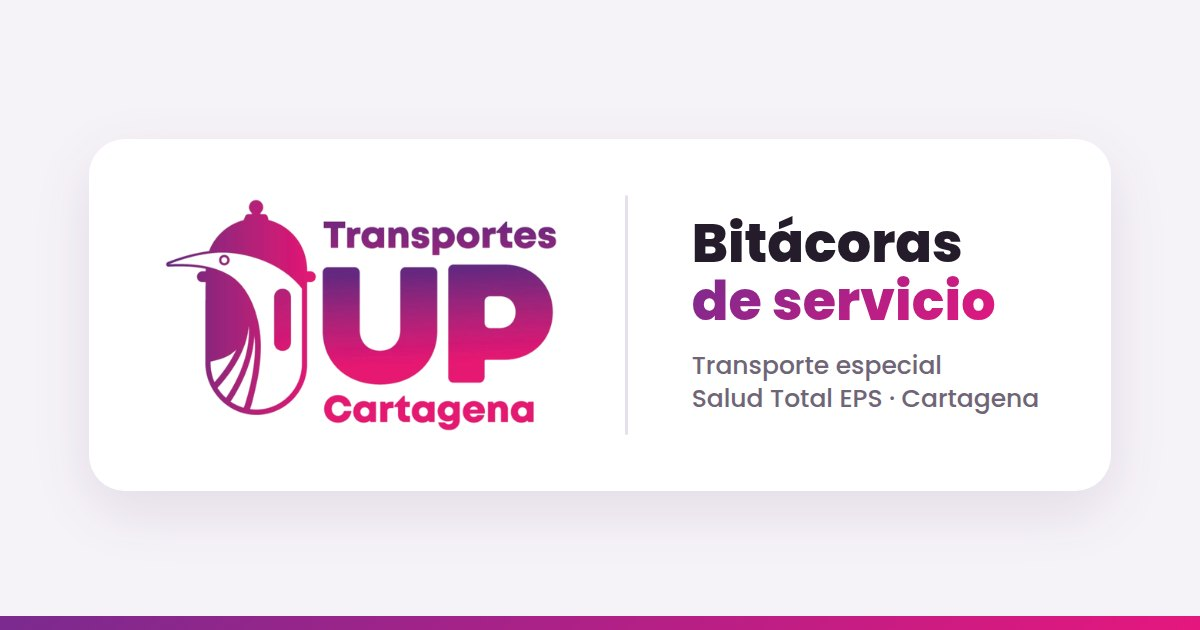
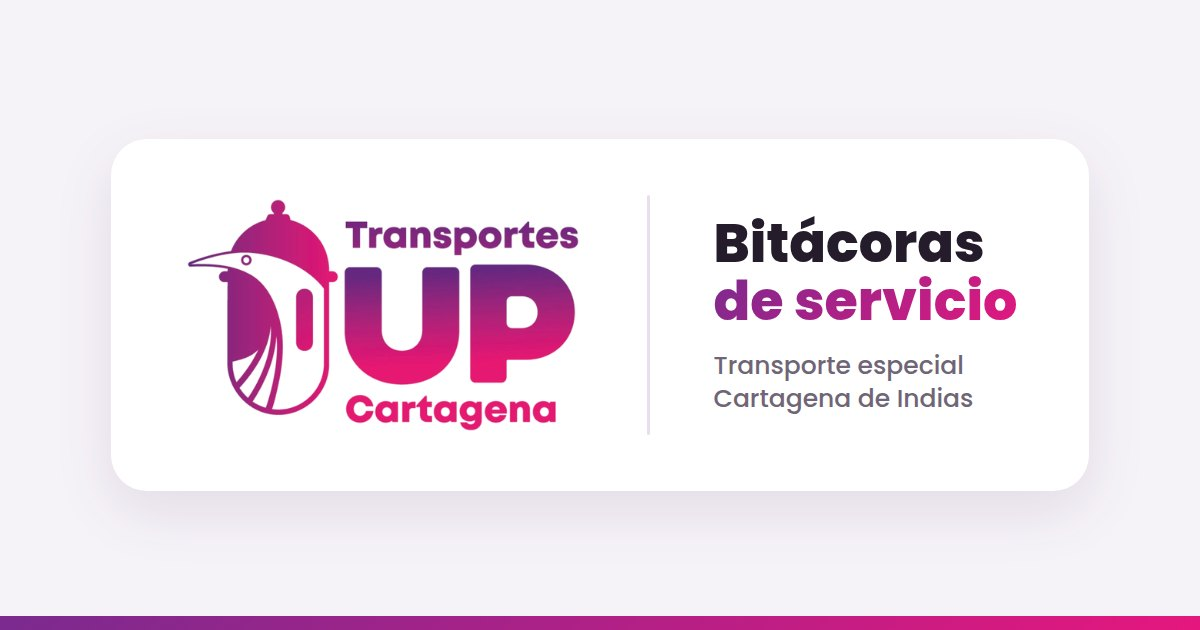
Quitar 'Salud Total EPS' de lo visible sin sesión (login, vista previa y metadatos)

Changed region(s): [[0.1233, 0.3016, 0.4933, 0.6937], [0.555, 0.3317, 0.8633, 0.5127], [0.5858, 0.5429, 0.8633, 0.6635]]

diff --git a/public/index.html b/public/index.html
@@ -5,15 +5,15 @@
   <meta name="viewport" content="width=device-width, initial-scale=1, viewport-fit=cover">
   <meta name="theme-color" content="#7A2A8F">
   <title>Transportes UP · Bitácoras</title>
-  <meta name="description" content="Bitácoras de servicios de transporte especial para usuarios de Salud Total EPS · Transportes UP Cartagena.">
+  <meta name="description" content="Bitácoras de servicios de transporte especial · Transportes UP Cartagena.">
   <!-- Vista previa al compartir el enlace (WhatsApp, Facebook, X…): las URL deben ser absolutas -->
   <meta property="og:type" content="website">
   <meta property="og:site_name" content="Transportes UP Cartagena">
   <meta property="og:title" content="Transportes UP · Bitácoras de servicio">
-  <meta property="og:description" content="Transporte especial Salud Total EPS · Cartagena. Acceso solo para personal autorizado.">
+  <meta property="og:description" content="Transporte especial · Cartagena. Acceso solo para personal autorizado.">
   <meta property="og:url" content="https://transportesup.vercel.app/">
-  <meta property="og:image" content="https://transportesup.vercel.app/og.jpg">
-  <meta property="og:image:secure_url" content="https://transportesup.vercel.app/og.jpg">
+  <meta property="og:image" content="https://transportesup.vercel.app/og.jpg?v=2">
+  <meta property="og:image:secure_url" content="https://transportesup.vercel.app/og.jpg?v=2">
   <meta property="og:image:type" content="image/jpeg">
   <meta property="og:image:width" content="1200">
   <meta property="og:image:height" content="630">
@@ -21,8 +21,8 @@
   <meta property="og:locale" content="es_CO">
   <meta name="twitter:card" content="summary_large_image">
   <meta name="twitter:title" content="Transportes UP · Bitácoras de servicio">
-  <meta name="twitter:description" content="Transporte especial Salud Total EPS · Cartagena.">
-  <meta name="twitter:image" content="https://transportesup.vercel.app/og.jpg">
+  <meta name="twitter:description" content="Transporte especial · Cartagena.">
+  <meta name="twitter:image" content="https://transportesup.vercel.app/og.jpg?v=2">
   <meta name="robots" content="noindex, nofollow">
   <link rel="icon" type="image/png" href="/favicon.png">
   <link rel="apple-touch-icon" href="/logo-icon.png">

diff --git a/public/app.js b/public/app.js
@@ -1040,7 +1040,7 @@ const ACCESO = {
           ${fotos.map((f, i) => `<div class="login-foto${i === 0 ? ' on' : ''}" data-src="/img/login/${f.archivo}" ${i === 0 ? `style="background-image:url('/img/login/${f.archivo}')"` : ''}></div>`).join('')}
           <div class="login-velo"></div>
           <div class="login-lema">
-            <span class="ll-eti">Transporte especial · Salud Total EPS</span>
+            <span class="ll-eti">Transporte especial · Cartagena</span>
             <b>Bitácoras de servicio, sin papeleo</b>
             <p>Registre los servicios de cada paciente, anexe su firma y su documento una sola vez, y genere la bitácora mensual lista para imprimir o enviar en PDF.</p>
             <ul>
